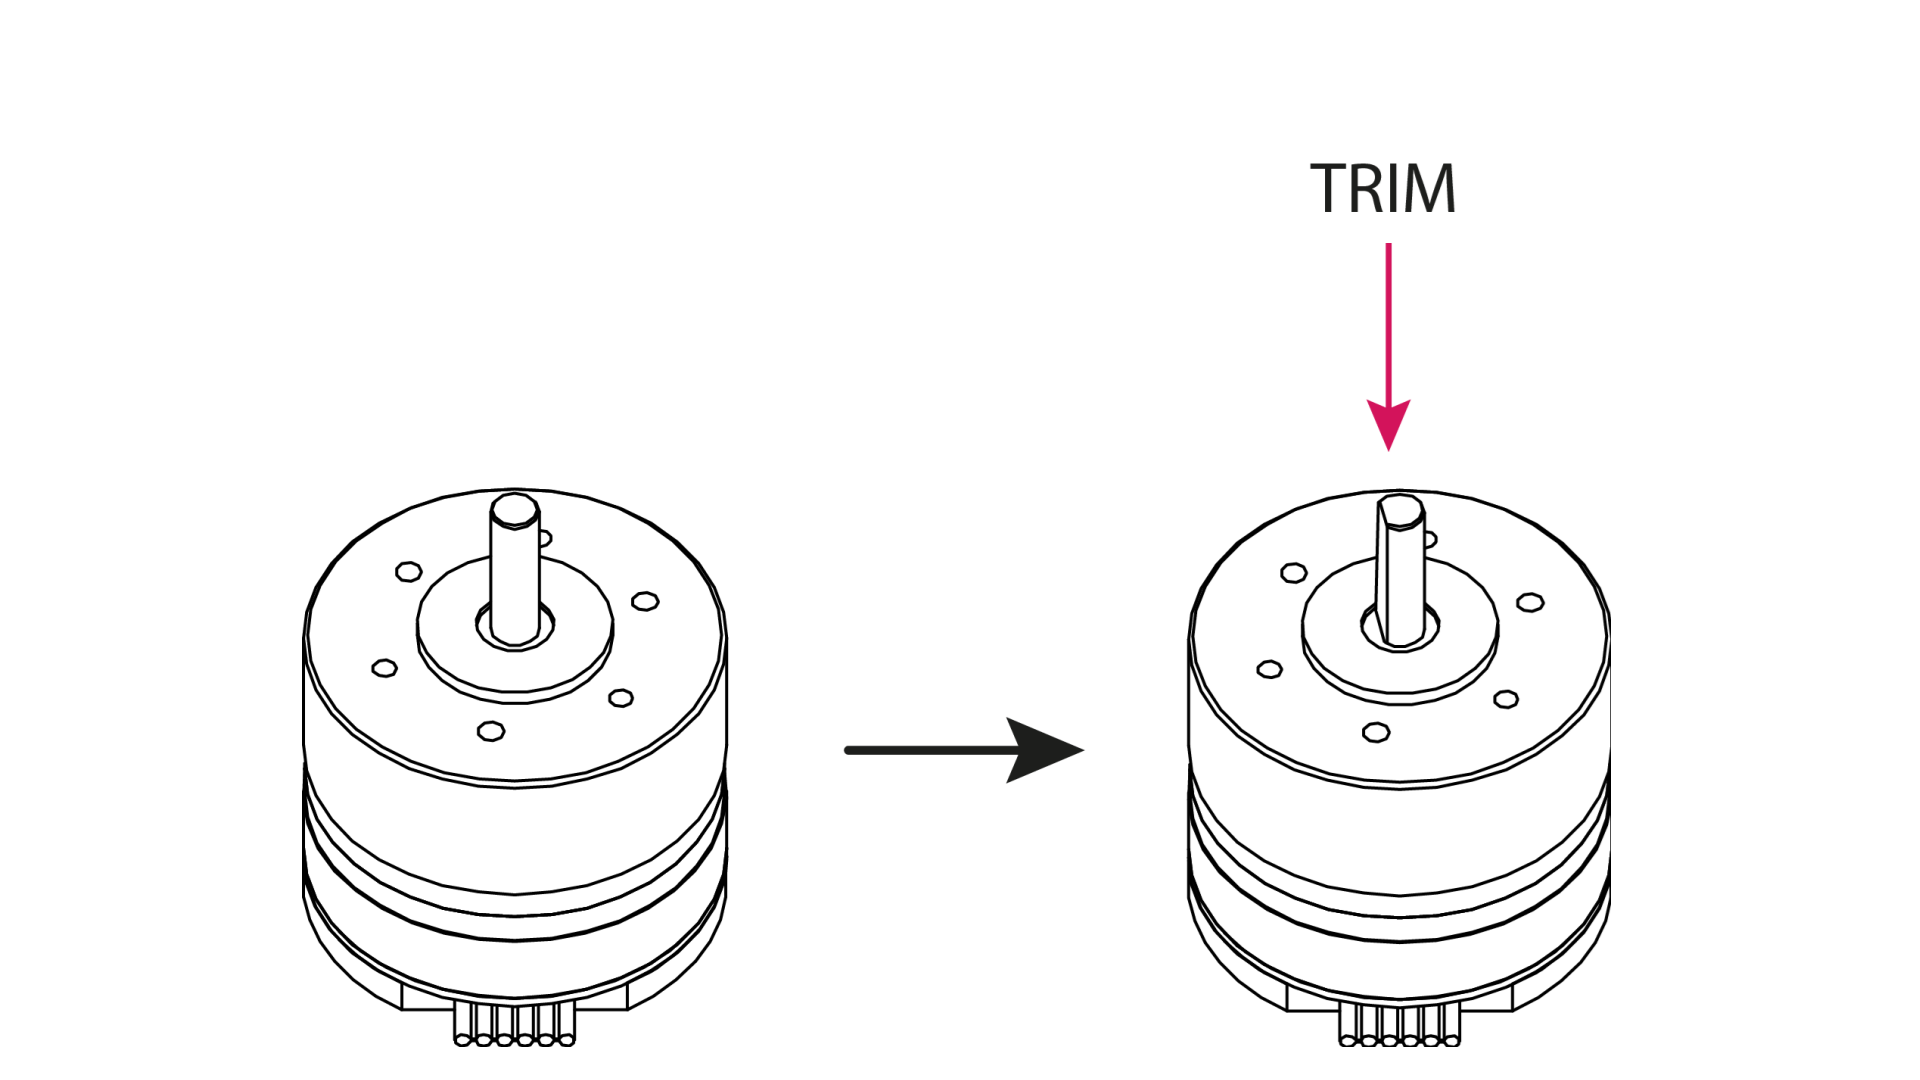
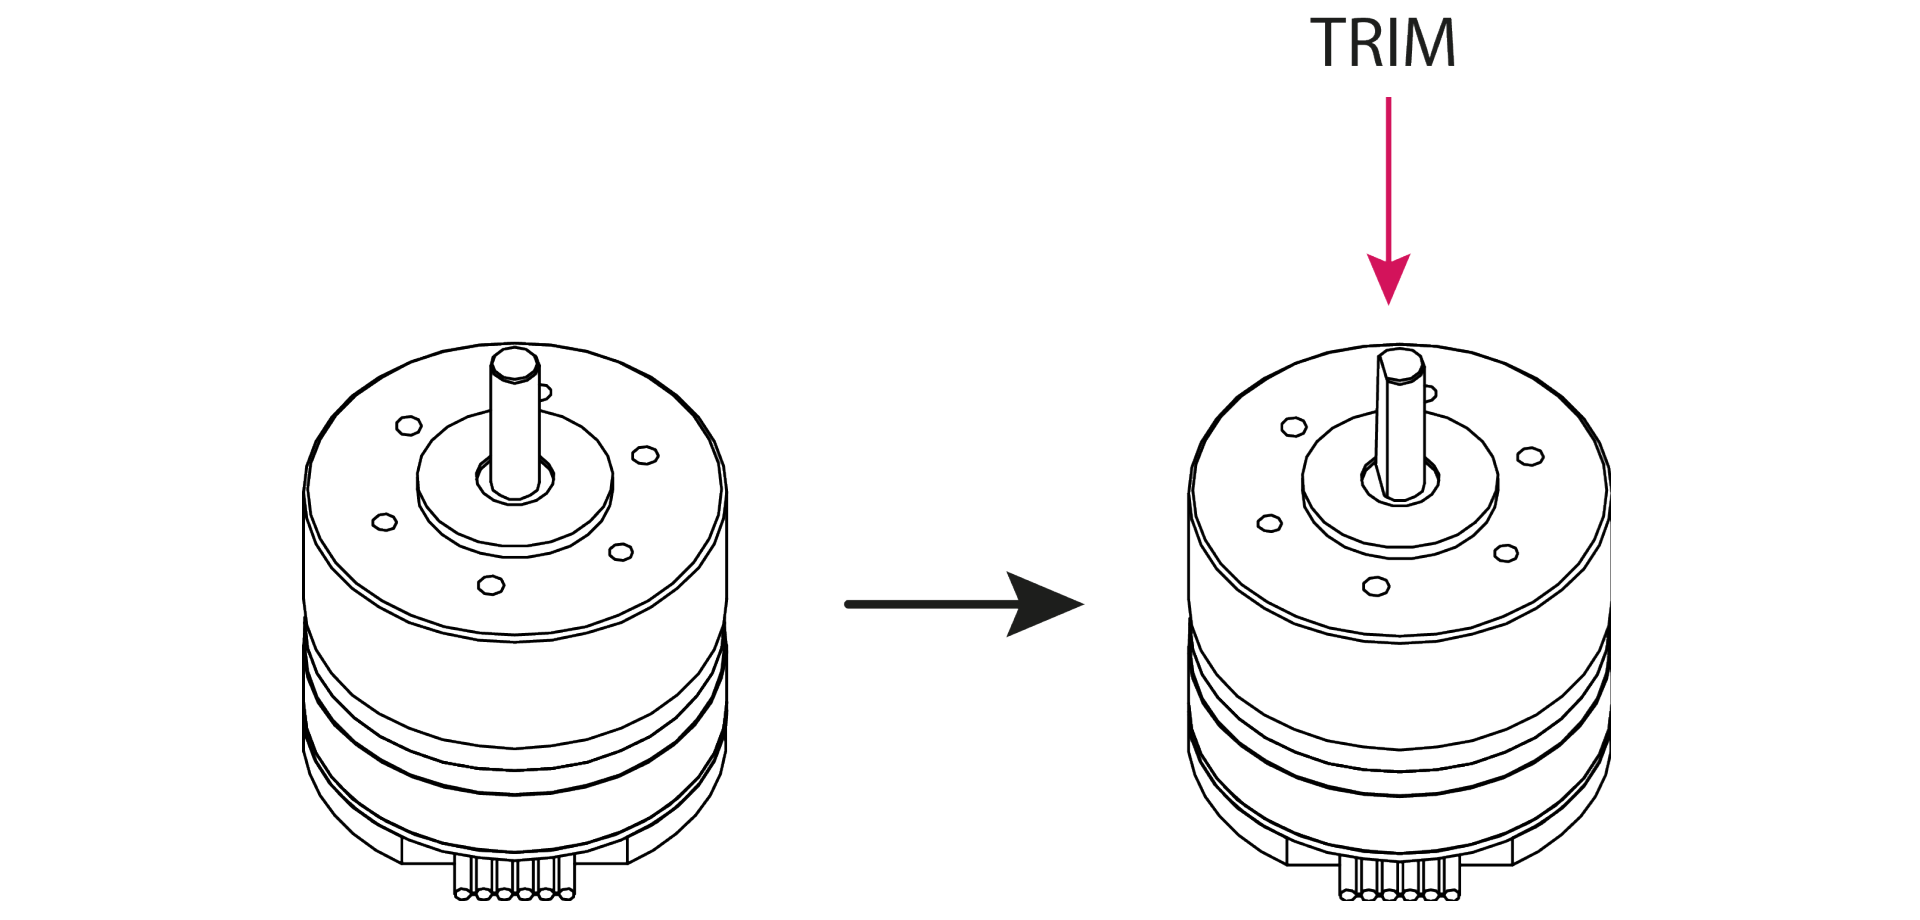
Show step-by-step hardware assembly

diff --git a/src/reference/hardware/feeder.md b/src/reference/hardware/feeder.md
@@ -9,22 +9,41 @@ Insert description of the feeder.
 
 ## Assembly Guide
 ### Pellet Hopper
-:::{dropdown} Click to expand
-![Assembly](../../_static/images/feeder-pellet-hopper.png)
-
-1. Trim slightly the motor metal pin using a grinding wheel or a handheld Dremel. Trim until you create a flat surface on the pin. 
-2. Rotate the feeder base and insert the motor. Screw the motor in place from the front using three screws (ID 2)
-3. Carefully handle the track and gently insert it in the feeder making sure of aligning the holes. Rotate the feeder base and hold the track in place by using six screws (ID 5)
-4. Lower the disk into the feeder base making sure to orient the grub screw tapped hole toward the flat surface previously created on the motor metal pin (see step 1). Push down the disk until the top of the pin is flushed to the disk itself and use a grub screw (ID 10) to hold the disk in place. Make sure the grub screw touches the flat surface of the trimmed motor pin.
-5. Insert two short silicon tubes in each pellet stopper pin and screw it in place with two screws (ID 4). 
+::::{dropdown} Click to expand
+:::{figure} ../../_static/images/feeder-pellet-hopper1.png
+:alt: step1
+1\. Trim slightly the motor metal pin using a grinding wheel or a handheld Dremel. Trim until you create a flat surface on the pin. 
 :::
+:::{figure} ../../_static/images/feeder-pellet-hopper2.png
+:alt: step2
+2\. Rotate the feeder base and insert the motor. Screw the motor in place from the front using three screws (ID 2).
+:::
+:::{figure} ../../_static/images/feeder-pellet-hopper1.png
+:alt: step3
+3\. Carefully handle the track and gently insert it in the feeder making sure of aligning the holes. Rotate the feeder base and hold the track in place by using six screws (ID 5).
+:::
+:::{figure} ../../_static/images/feeder-pellet-hopper1.png
+:alt: step4
+4\. Lower the disk into the feeder base making sure to orient the grub screw tapped hole toward the flat surface previously created on the motor metal pin (see step 1). Push down the disk until the top of the pin is flushed to the disk itself and use a grub screw (ID 10) to hold the disk in place. Make sure the grub screw touches the flat surface of the trimmed motor pin.
+:::
+:::{figure} ../../_static/images/feeder-pellet-hopper1.png
+:alt: step5
+5\. Insert two short silicon tubes in each pellet stopper pin and screw it in place with two screws (ID 4). 
+:::
+::::
 
 ### IR Sensor
-:::{dropdown} Click to expand
-![Assembly](../../_static/images/feeder-ir-sensor.png)
-
-6. Place the wheel frame on the feeder base with 4 screws (ID 4)
-7. Carefully insert the beam break PCB board into the beam break holder (ID 12).
-8. Slot the beam break holder in the back of the feeder base and screw it in place from the front (ID 1).
+::::{dropdown} Click to expand
+:::{figure} ../../_static/images/feeder-ir-sensor1.png
+:alt: step6
+6\. Place the wheel frame on the feeder base with 4 screws (ID 4).
 :::
-
+:::{figure} ../../_static/images/feeder-ir-sensor2.png
+:alt: step7
+7\. Carefully insert the beam break PCB board into the beam break holder (ID 12).
+:::
+:::{figure} ../../_static/images/feeder-ir-sensor1.png
+:alt: step8
+8\. Slot the beam break holder in the back of the feeder base and screw it in place from the front (ID 1).
+:::
+::::
